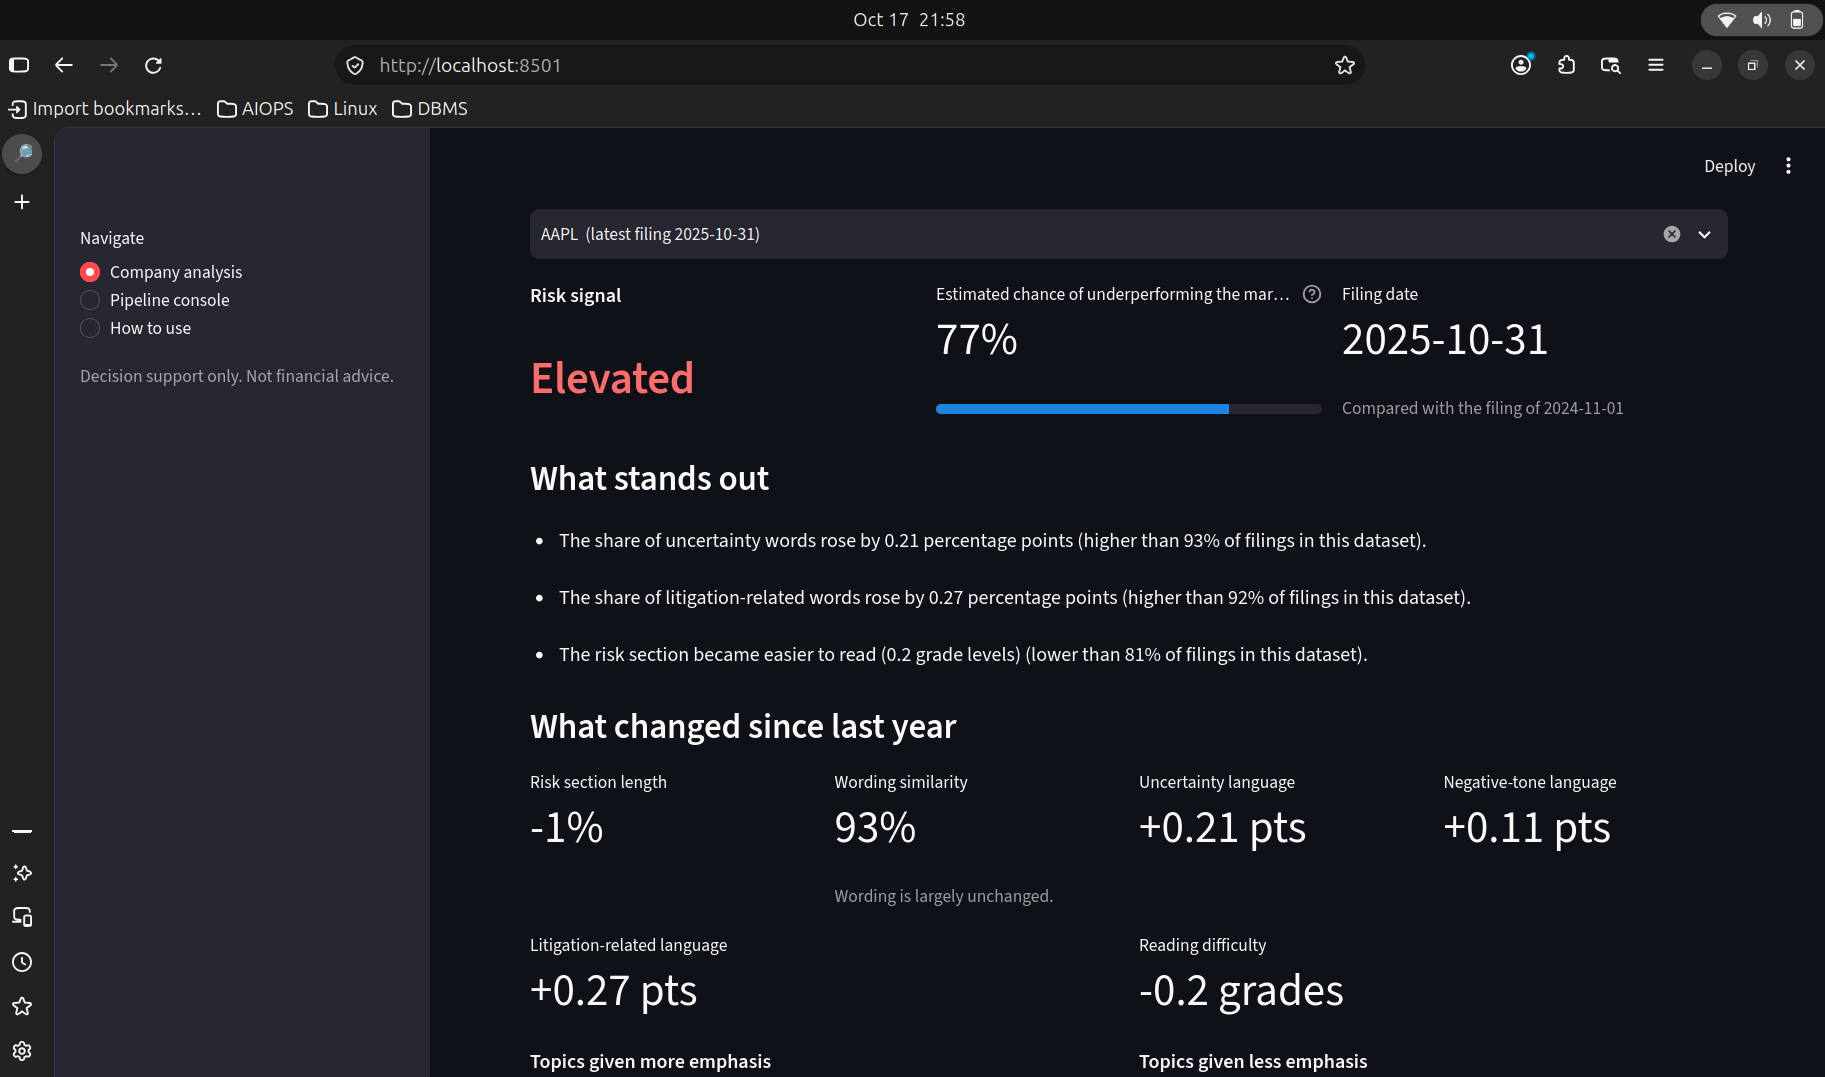
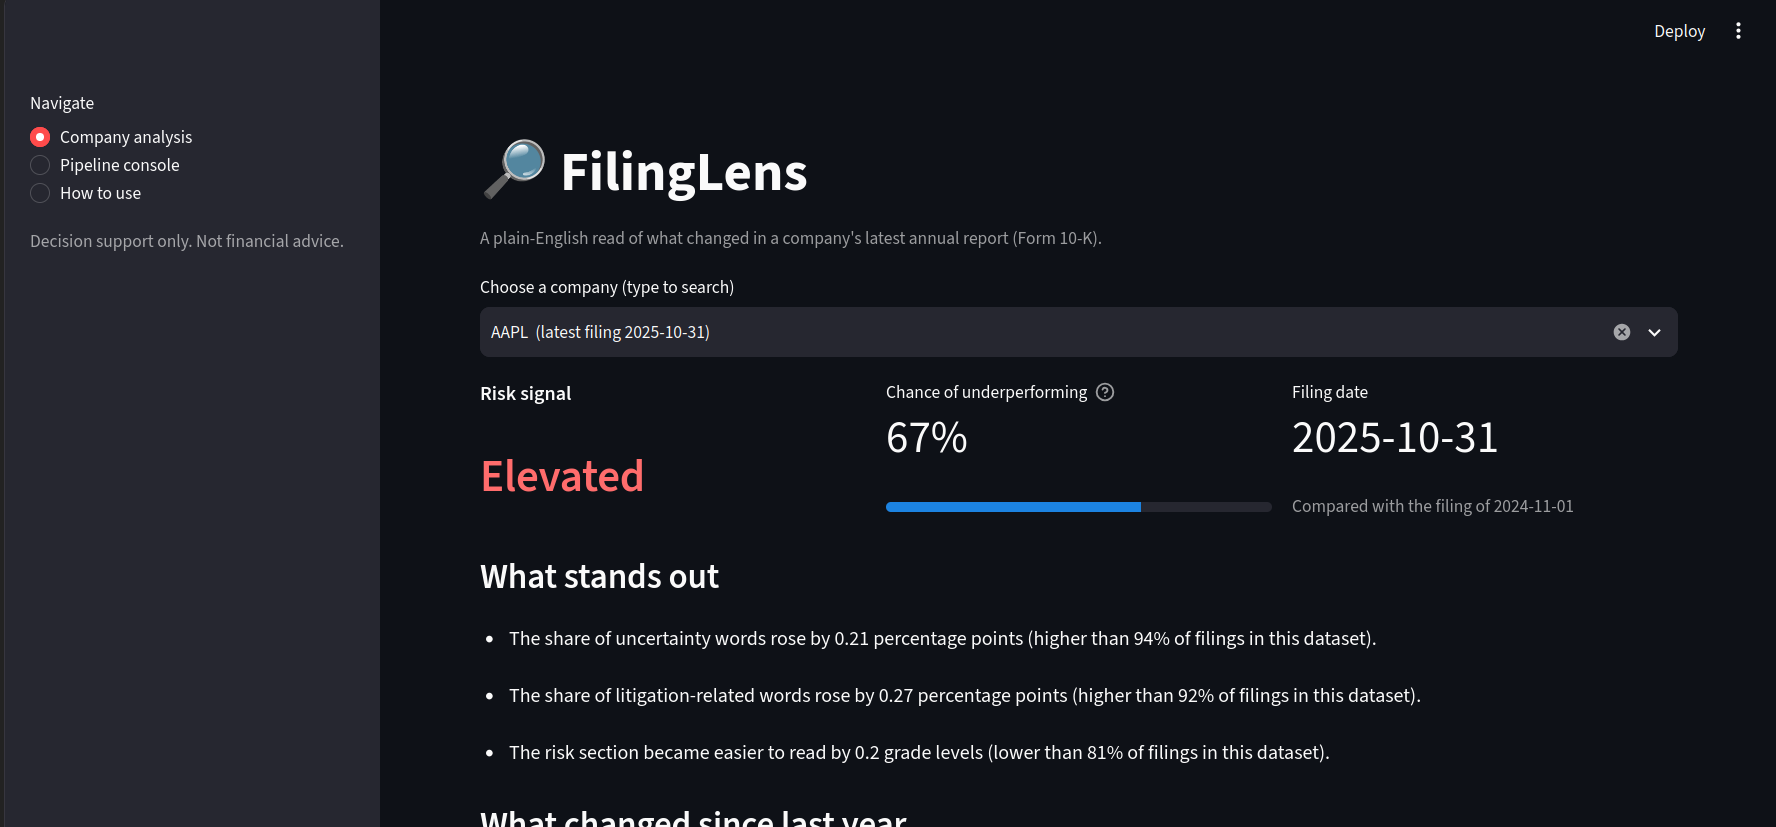
User Manual screenshots and operator notes; fixed history chart axis

diff --git a/frontend/app.py b/frontend/app.py
@@ -2,6 +2,7 @@
 
 import os
 
+import altair as alt
 import pandas as pd
 import streamlit as st
 import streamlit.components.v1 as components
@@ -23,6 +24,27 @@ MLFLOW_UI_URL = os.environ.get("MLFLOW_UI_URL", "http://localhost:5000")
 PROMETHEUS_URL = os.environ.get("PROMETHEUS_URL", "http://localhost:9090")
 
 st.set_page_config(page_title="FilingLens", page_icon="🔎", layout="wide")
+
+
+def history_chart(scored: pd.DataFrame, low: float, elevated: float) -> alt.LayerChart:
+    """Estimated chance per filing on a fixed 0-100% axis, with the signal thresholds as dashed lines."""
+    data = scored.assign(chance=scored["score"] * 100)
+    line = (
+        alt.Chart(data)
+        .mark_line(point=True)
+        .encode(
+            x=alt.X("filing_date:N", title="Filing date", axis=alt.Axis(labelAngle=0)),
+            y=alt.Y("chance:Q", title="Estimated chance (%)", scale=alt.Scale(domain=[0, 100])),
+            tooltip=[
+                alt.Tooltip("filing_date:N", title="Filing date"),
+                alt.Tooltip("label:N", title="Signal"),
+                alt.Tooltip("chance:Q", title="Chance (%)", format=".0f"),
+            ],
+        )
+    )
+    thresholds = pd.DataFrame({"chance": [100 * low, 100 * elevated]})
+    rules = alt.Chart(thresholds).mark_rule(strokeDash=[4, 4], color="gray").encode(y="chance:Q")
+    return line + rules
 
 
 @st.cache_data(ttl=60, show_spinner=False)
@@ -100,7 +122,11 @@ def page_analysis() -> None:
             df = pd.DataFrame(points)
             scored = df.dropna(subset=["score"])
             if len(scored) >= 2:
-                st.line_chart(scored.set_index("filing_date")["score"], y_label="Estimated chance")
+                sig = result.get("signal") or {}
+                st.altair_chart(
+                    history_chart(scored, sig.get("low_threshold", 0.4), sig.get("elevated_threshold", 0.6)),
+                    use_container_width=True,
+                )
             st.dataframe(
                 df[["filing_date", "label", "score", "text_similarity"]].rename(
                     columns={

diff --git a/docs/FilingLens User Manual.md b/docs/FilingLens User Manual.md
@@ -1,6 +1,6 @@
 # FilingLens: User Manual
 
-Eshika Nahata (DA24B004) | Version 1.0 | For anyone who wants to understand a company's annual report without reading all of it
+Eshika Nahata (DA24B004) | Version 1.1 | For anyone who wants to understand a company's annual report without reading all of it
 
 ## 1. What FilingLens Does
 
@@ -24,7 +24,9 @@ For each company it shows:
    - **Pipeline console**: a status page for the person who runs the system (section 10).
    - **How to use**: a short help page.
 
-&#91;Screenshot: the Company analysis page before a company is chosen, with the sidebar\]
+![The Company analysis page before a company is chosen. The sidebar on the left switches between the three pages.](screenshots/ui_start.png)
+
+*The Company analysis page before a company is chosen. The sidebar on the left switches between the three pages.*
 
 ## 3. Looking Up a Company
 
@@ -42,7 +44,9 @@ For each company it shows:
 
 **Step 5. Open the history.** Click *Signal across this company's filings* to see earlier years (section 5).
 
-&#91;Screenshot: the result for AAPL, from the risk signal down to the six change figures\]
+![The result for Apple (AAPL): the risk signal and chance of underperforming at the top, then what stands out and the six figures that changed since last year.](screenshots/ui_analysis.png)
+
+*The result for Apple (AAPL): the risk signal and chance of underperforming at the top, then what stands out and the six figures that changed since last year.*
 
 ## 4. What Each Figure Means
 
@@ -73,7 +77,9 @@ Under the main results, click **Signal across this company's filings**. You see:
 
 The oldest report always shows *Not enough data*, because it has no earlier report to compare with.
 
-&#91;Screenshot: the history chart and table for AAPL\]
+![The history view for Apple: the estimated chance for each year as a chart, and the same years in a table.](screenshots/ui_history.png)
+
+*The history view for Apple: the estimated chance for each year as a chart, and the same years in a table.*
 
 ## 6. Reading the Results Sensibly
 
@@ -87,7 +93,9 @@ The oldest report always shows *Not enough data*, because it has no earlier repo
 
 The page adapts to narrow screens. The three columns at the top stack into a single column, and the figures follow one under another. Tap the arrow at the top left to open the sidebar and change pages. Nothing is cut off.
 
-&#91;Screenshot: the analysis page on a phone-width screen\]
+![The analysis page on a narrow screen: the columns stack into one and nothing is cut off.](screenshots/ui_mobile.png)
+
+*The analysis page on a narrow screen: the columns stack into one and nothing is cut off.*
 
 ## 7. If Something Goes Wrong
 
@@ -99,7 +107,9 @@ The page adapts to narrow screens. The three columns at the top stack into a sin
 | *Not enough data* as a signal | Not an error: this is the company's earliest report in the collection. | Nothing to do. |
 | No chart in the history view | A chart needs at least two scored years. | Nothing to do; the table still shows what is available. |
 
-&#91;Screenshot: the message shown when the scoring service is unavailable\]
+![The friendly message shown when the scoring service is not responding. No technical error text is shown.](screenshots/ui_error_model_down.png)
+
+*The friendly message shown when the scoring service is not responding. No technical error text is shown.*
 
 The application never shows technical error text. If you ever see a long technical message, please report it.
 
@@ -111,7 +121,7 @@ The application never shows technical error text. If you ever see a long technic
 
 **How up to date is it?** Each company shows the date of its latest report in the list. The data is refreshed by the person who runs the system.
 
-**Why is a company I know missing?** The collection is a fixed list of 54 companies. A few large companies publish their annual reports in a format that FilingLens cannot read reliably, so they are not included.
+**Why is a company I know missing?** The collection is a fixed list of 54 companies. A few large companies publish their annual reports in a format that FilingLens cannot read reliably, and one was not available from the SEC's data service for the years covered, so they are not included.
 
 **What does "filings in this dataset" mean?** The other annual reports in the collection, across all companies and years.
 
@@ -125,7 +135,9 @@ The **How to use** page in the sidebar has a short version of this manual, and a
 
 The **Pipeline console** page is for the operator, not for the casual reader.
 
-&#91;Screenshot: the Pipeline console, top of the page with the stage table\]
+![The top of the Pipeline console: headline numbers, then the status of each pipeline stage.](screenshots/console_stages.png)
+
+*The top of the Pipeline console: headline numbers, then the status of each pipeline stage.*
 
 It shows:
 
@@ -141,7 +153,13 @@ It shows:
 
 - start: `docker compose up -d` (wait about 40 seconds);
 - stop: `docker compose down`;
-- check: `docker compose ps` should show the services running, with three marked healthy.
+- check: `docker compose ps` should show seven services running, with three marked healthy.
+
+**Monitoring tools.** Grafana (`http://localhost:3000`) can be viewed without logging in; to change a dashboard, log in as `admin` with the password set in the `.env` file on the host computer. Prometheus (`http://localhost:9090`) shows the alert rules, and cAdvisor (`http://localhost:8080`) shows each service's use of the computer's memory and processor.
+
+**Model safety check.** Before the scoring service starts, it checks that the model file has not been changed since it was produced. If the check fails, the service does not start and the application shows the *scoring service is temporarily unavailable* message. Restore the model with `dvc checkout models/champion` and restart the service with `docker compose restart model-server`.
+
+**About the data.** A report describing the collection of annual reports (how many per company and year, data-quality checks and charts) is in `reports/eda/eda.md` in the project folder. It is regenerated every time the data is refreshed.
 
 If the page reports that a service is unavailable, run `docker compose ps` to see which service stopped and `docker compose logs <service>` to see why. Further operating commands, including retraining and rolling back a model, are in the project README.
 

diff --git a/docs/FilingLens Test Report.md b/docs/FilingLens Test Report.md
@@ -10,7 +10,7 @@ This report gives the results of running the Test Plan. Evidence files are in `d
 - **Code style:** flake8 reports 0 warnings (maximum line length 120); the code is formatted with black. This is enforced by the DVC `lint` stage.
 - **Manual system tests:** 27 cases. Of the original 23, eighteen passed on the first attempt and five needed attention (ST-05 not run at first, ST-06 incomplete, ST-10 failed, ST-21 partial, ST-22 failed); all were fixed or completed. Four cases (ST-24 to ST-27) were added with the security, monitoring and CI improvements. **All 27 now pass.**
 - **Acceptance criteria:** seven of eight are met. **AC-3 is not met:** the final model cannot be distinguished from the majority-class baseline (section 5 and 7).
-- **Problems found and resolved:** twenty-one, listed in section 9. They include a mistake in the deployment instructions, an unclean pipeline status, a rollback that did not trigger, a reproducibility flag that was wrong, and a download bug that silently missed older filings for twelve companies.
+- **Problems found and resolved:** twenty-two, listed in section 9. They include a mistake in the deployment instructions, an unclean pipeline status, a rollback that did not trigger, a reproducibility flag that was wrong, and a download bug that silently missed older filings for twelve companies.
 
 ## 2. Scope and Environment
 
@@ -180,6 +180,8 @@ Time-based split: 202 training filings, 58 test filings, with a 45-day embargo. 
 | 20 | Review | The model server ran as root, and the Grafana admin password was hard-coded in the compose file | Defaults | Non-root user in the model image; password read from the git-ignored `.env`; static tests for both |
 | 21 | Review | Only the backend was monitored; the model server, frontend and other containers had no metrics | MLflow serving and Streamlit have no Prometheus endpoint | cAdvisor added and scraped; container CPU, memory and count panels; `ModelServerContainerDown` and `ScrapeTargetDown` alerts |
 
+| 22 | Evidence review (User Manual screenshots) | The history chart's axis ran from -0.1, cut off the highest point, and its title was clipped | Automatic axis range of the default line chart | A chart with a fixed 0 to 100% axis, horizontal date labels and the signal thresholds drawn as dashed lines |
+
 ## 10. Limitations and Residual Risks
 
 - **No detectable predictive signal.** Acceptance criterion AC-3 is not met, and the application states plainly that the score is of limited reliability. A larger dataset is the main route to a more informative result.
@@ -192,4 +194,4 @@ Time-based split: 202 training filings, 58 test filings, with a 45-day embargo. 
 
 ## 11. Conclusion
 
-The system works end to end and was tested at every level: 130 automated tests pass with no style warnings, all 27 manual system tests pass after fixes, and seven of eight acceptance criteria are met. The one unmet criterion is a statement about the data, not the engineering: with 202 training filings the model is indistinguishable from chance, and this is reported openly, with confidence intervals, a positive-control test, and an application that says so to its users. Testing and review were productive: they found twenty-one real problems, including four that only appeared when the full stack ran and one that silently removed data, and each is now guarded by a test or a documented process step.
+The system works end to end and was tested at every level: 130 automated tests pass with no style warnings, all 27 manual system tests pass after fixes, and seven of eight acceptance criteria are met. The one unmet criterion is a statement about the data, not the engineering: with 202 training filings the model is indistinguishable from chance, and this is reported openly, with confidence intervals, a positive-control test, and an application that says so to its users. Testing and review were productive: they found twenty-two real problems, including four that only appeared when the full stack ran and one that silently removed data, and each is now guarded by a test or a documented process step.
